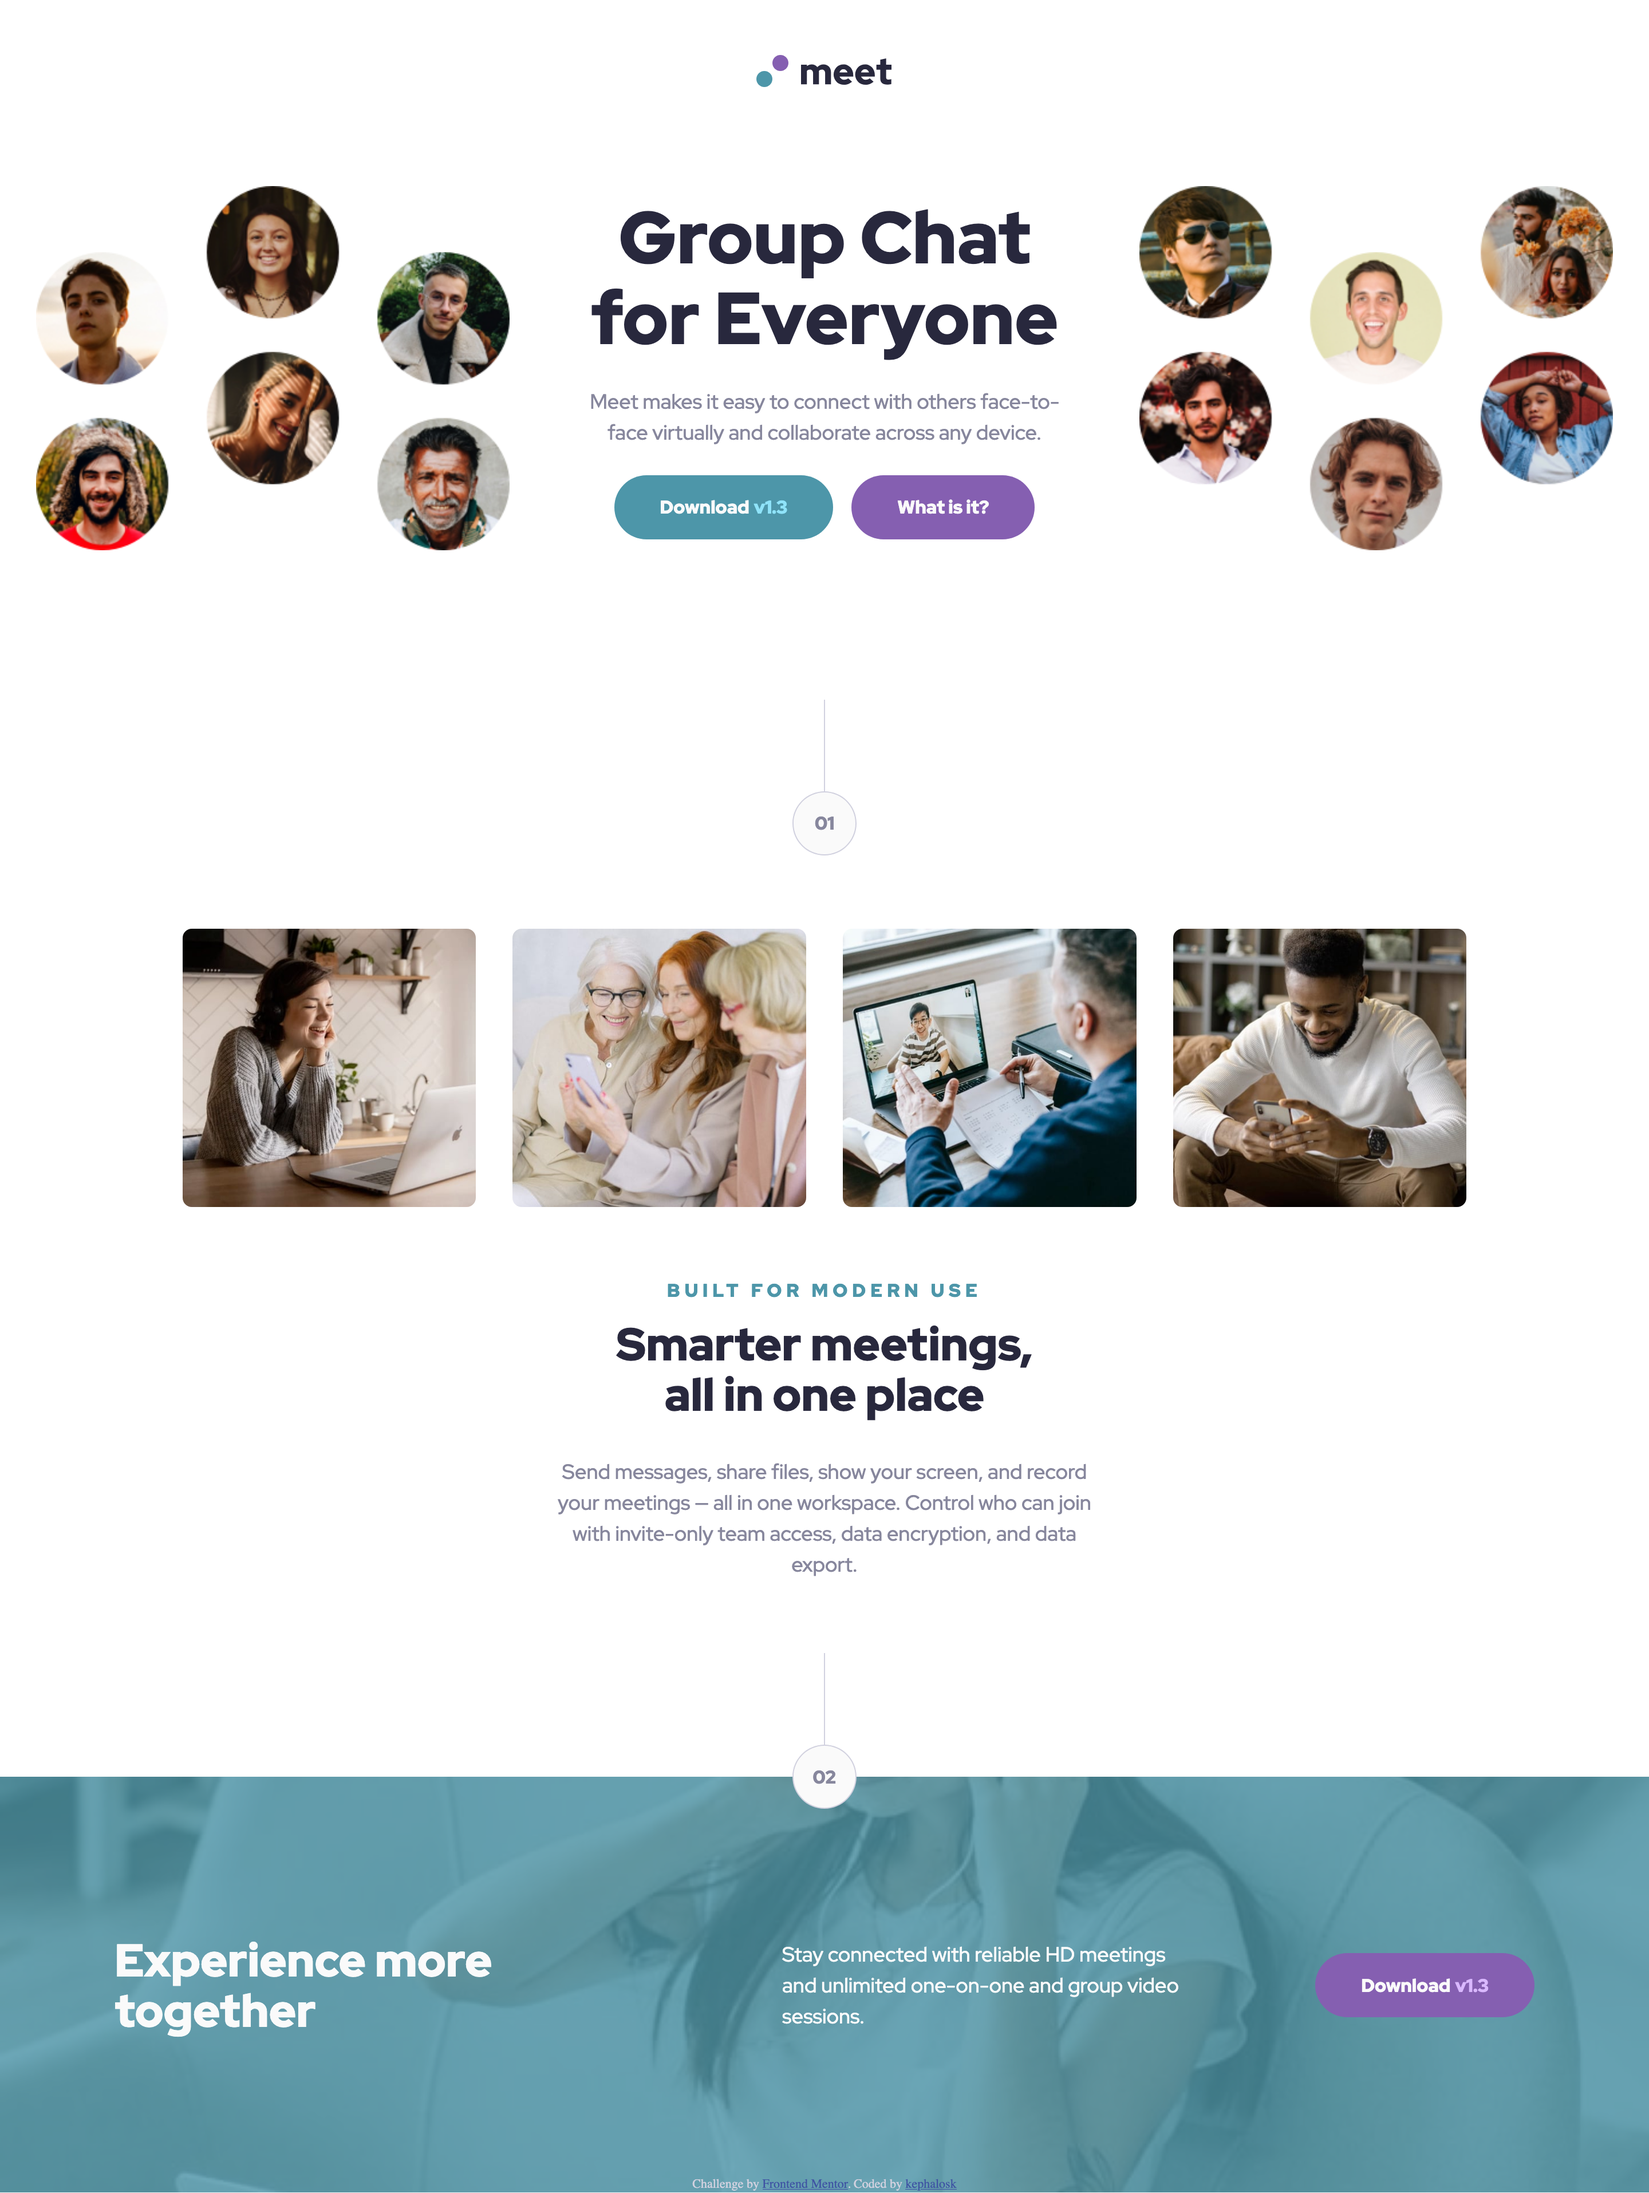
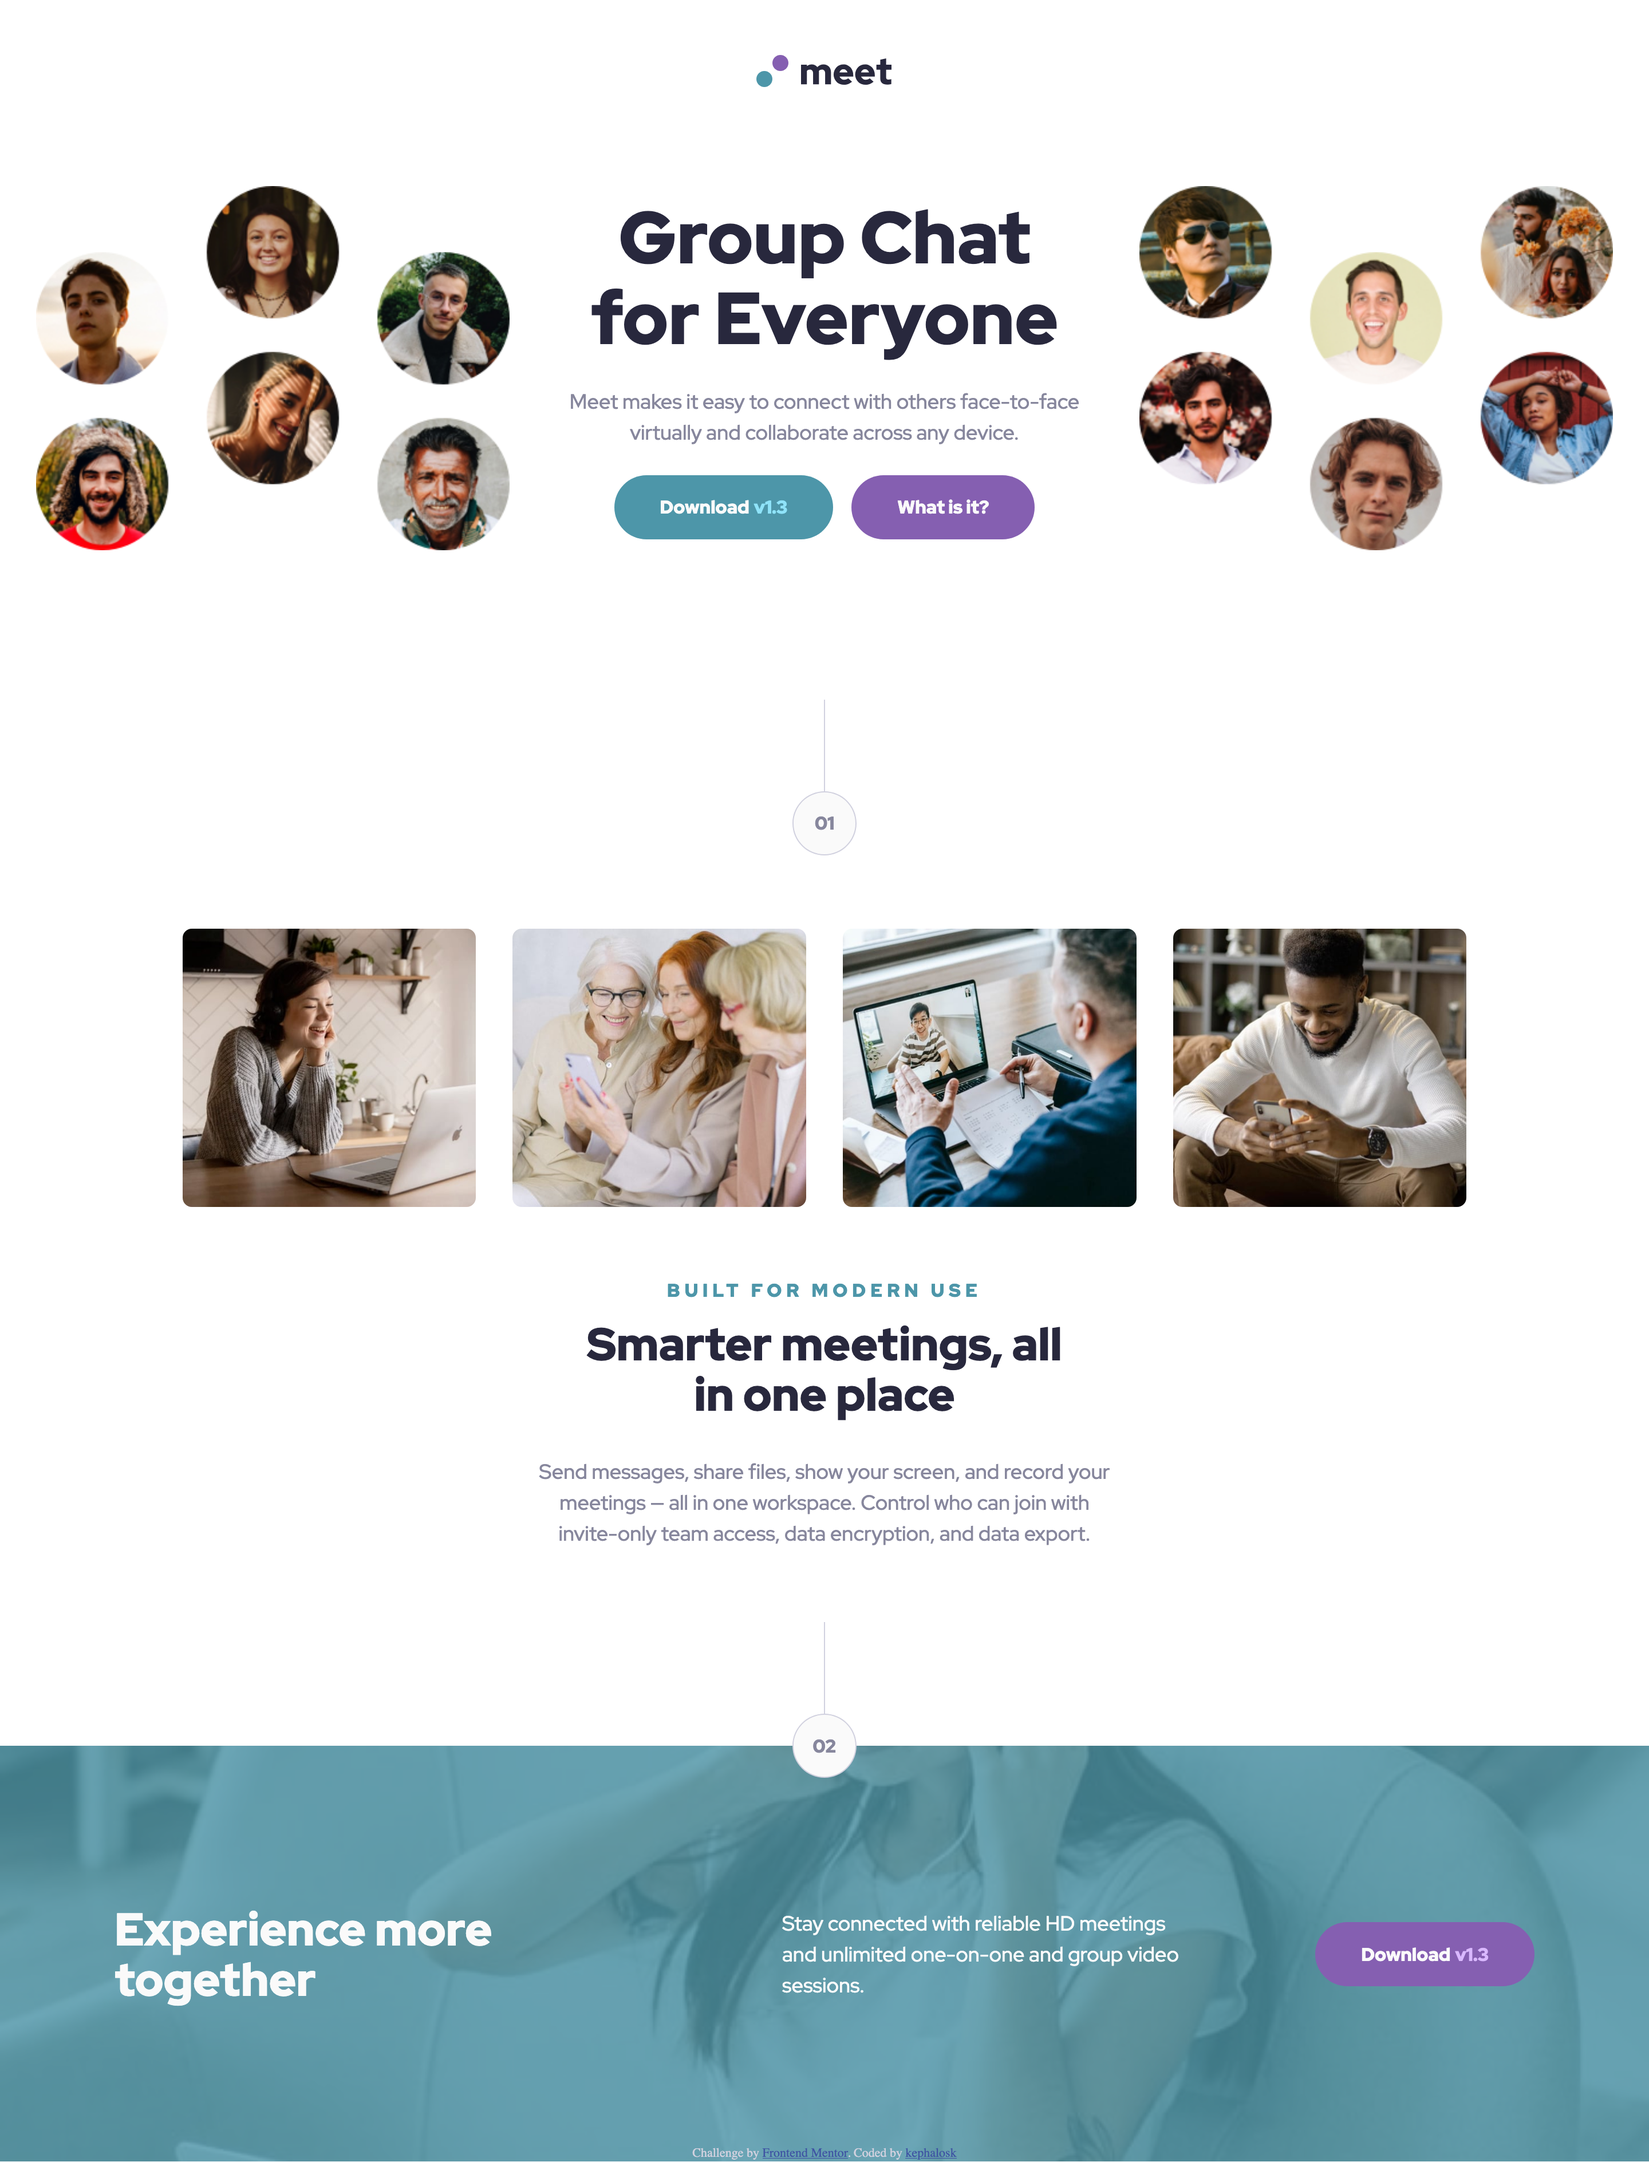
update layout

diff --git a/styles/styles.css b/styles/styles.css
@@ -71,7 +71,6 @@ h1, h2, p {
 }
 
 .contentText {
-  padding: 0 0.25rem;
   text-align: center;
   color: #87879D;
   font-family: "Red Hat Display", sans-serif;
@@ -252,6 +251,79 @@ h1, h2, p {
   }
 }
 
+.section1Content {
+  padding: 0 2rem;
+  display: flex;
+  flex-direction: column;
+  justify-content: center;
+  align-items: center;
+  row-gap: 2rem;
+}
+@media (min-width: 37.5rem) {
+  .section1Content {
+    padding: 0 6.875rem;
+  }
+}
+@media (min-width: 60rem) {
+  .section1Content {
+    max-width: 45rem;
+  }
+}
+
+.section1ContentHeader {
+  display: flex;
+  flex-direction: column;
+  justify-content: center;
+  align-items: center;
+  row-gap: 1rem;
+}
+
+.section1ContentHeaderSubtitle {
+  text-align: center;
+  text-transform: uppercase;
+  color: #4D96A9;
+  font-family: "Red Hat Display", sans-serif;
+  font-weight: 900;
+  font-size: 0.75rem;
+  line-height: 110%;
+  letter-spacing: 0.25rem;
+}
+@media (min-width: 37.5rem) {
+  .section1ContentHeaderSubtitle {
+    font-size: 0.875rem;
+  }
+}
+@media (min-width: 60rem) {
+  .section1ContentHeaderSubtitle {
+    font-size: 1rem;
+  }
+}
+
+.section1ContentHeaderTitle {
+  text-align: center;
+  color: #28283D;
+  font-family: "Red Hat Display", sans-serif;
+  font-weight: 900;
+  font-size: 2rem;
+  line-height: 110%;
+  letter-spacing: 0;
+}
+@media (min-width: 37.5rem) {
+  .section1ContentHeaderTitle {
+    font-size: 2.25rem;
+  }
+}
+@media (min-width: 60rem) {
+  .section1ContentHeaderTitle {
+    font-size: 2.5rem;
+  }
+}
+@media (min-width: 60rem) {
+  .section1ContentHeaderTitle {
+    padding: 0 1.5rem;
+  }
+}
+
 .section1Wrapper {
   padding: 0 1.5rem;
   width: 100%;
@@ -334,79 +406,6 @@ h1, h2, p {
   .section1Image4 {
     grid-column: 4/span 1;
     grid-row: 1/span 1;
-  }
-}
-
-.section1Content {
-  padding: 0 2rem;
-  display: flex;
-  flex-direction: column;
-  justify-content: center;
-  align-items: center;
-  row-gap: 2rem;
-}
-@media (min-width: 37.5rem) {
-  .section1Content {
-    padding: 0 6.875rem;
-  }
-}
-@media (min-width: 60rem) {
-  .section1Content {
-    max-width: 44.375rem;
-  }
-}
-
-.section1ContentHeader {
-  display: flex;
-  flex-direction: column;
-  justify-content: center;
-  align-items: center;
-  row-gap: 1rem;
-}
-
-.section1ContentHeaderSubtitle {
-  text-align: center;
-  text-transform: uppercase;
-  color: #4D96A9;
-  font-family: "Red Hat Display", sans-serif;
-  font-weight: 900;
-  font-size: 0.75rem;
-  line-height: 110%;
-  letter-spacing: 0.25rem;
-}
-@media (min-width: 37.5rem) {
-  .section1ContentHeaderSubtitle {
-    font-size: 0.875rem;
-  }
-}
-@media (min-width: 60rem) {
-  .section1ContentHeaderSubtitle {
-    font-size: 1rem;
-  }
-}
-
-.section1ContentHeaderTitle {
-  text-align: center;
-  color: #28283D;
-  font-family: "Red Hat Display", sans-serif;
-  font-weight: 900;
-  font-size: 2rem;
-  line-height: 110%;
-  letter-spacing: 0;
-}
-@media (min-width: 37.5rem) {
-  .section1ContentHeaderTitle {
-    font-size: 2.25rem;
-  }
-}
-@media (min-width: 60rem) {
-  .section1ContentHeaderTitle {
-    font-size: 2.5rem;
-  }
-}
-@media (min-width: 60rem) {
-  .section1ContentHeaderTitle {
-    padding: 0 3.4375rem;
   }
 }
 

diff --git a/styles/styles.scss b/styles/styles.scss
@@ -20,7 +20,6 @@ $space-80px: functions.to-rem(80px);
 $space-72px: functions.to-rem(72px);
 $space-64px: functions.to-rem(64px);
 $space-56px: functions.to-rem(56px);
-$space-55px: functions.to-rem(55px);
 $space-48px: functions.to-rem(48px);
 $space-40px: functions.to-rem(40px);
 $space-36px: functions.to-rem(36px);
@@ -39,7 +38,7 @@ $footer-height: functions.to-rem(363px);
 $number-height: functions.to-rem(108px);
 $number-line-height: functions.to-rem(80px);
 $number-circle-height: functions.to-rem(56px);
-$section-content-1-width: functions.to-rem(710px);
+$section-content-1-width: functions.to-rem(720px);
 $section-content-0-width: functions.to-rem(550px);
 $image-height: functions.to-rem(144px);
 $image-width-desktop: 17.8vw;
@@ -200,7 +199,6 @@ h1, h2, p {
 }
 
 .contentText {
-  padding: 0 $space-4px;
   text-align: center;
   color: $color-slate-600;
 
@@ -347,6 +345,50 @@ h1, h2, p {
   }
 }
 
+.section1Content {
+  padding: 0 $space-32px;
+  display: flex;
+  flex-direction: column;
+  justify-content: center;
+  align-items: center;
+  row-gap: $space-32px;
+
+  @include tablet-and-up {
+    padding: 0 $space-110px;
+  }
+
+  @include desktop-and-up {
+    max-width: $section-content-1-width;
+  }
+}
+
+.section1ContentHeader {
+  display: flex;
+  flex-direction: column;
+  justify-content: center;
+  align-items: center;
+  row-gap: $space-16px;
+}
+
+.section1ContentHeaderSubtitle {
+  text-align: center;
+  text-transform: uppercase;
+  color: $color-cyan-600;
+
+  @include text-preset-3;
+}
+
+.section1ContentHeaderTitle {
+  text-align: center;
+  color: $color-slate-900;
+
+  @include text-preset-2;
+
+  @include desktop-and-up {
+    padding: 0 $space-24px;
+  }
+}
+
 .section1Wrapper {
   padding: 0 $space-24px;
   width: 100%;
@@ -422,50 +464,6 @@ h1, h2, p {
   @include tablet-and-up {
     grid-column: 4 / span 1;
     grid-row: 1 / span 1;
-  }
-}
-
-.section1Content {
-  padding: 0 $space-32px;
-  display: flex;
-  flex-direction: column;
-  justify-content: center;
-  align-items: center;
-  row-gap: $space-32px;
-
-  @include tablet-and-up {
-    padding: 0 $space-110px;
-  }
-
-  @include desktop-and-up {
-    max-width: $section-content-1-width;
-  }
-}
-
-.section1ContentHeader {
-  display: flex;
-  flex-direction: column;
-  justify-content: center;
-  align-items: center;
-  row-gap: $space-16px;
-}
-
-.section1ContentHeaderSubtitle {
-  text-align: center;
-  text-transform: uppercase;
-  color: $color-cyan-600;
-
-  @include text-preset-3;
-}
-
-.section1ContentHeaderTitle {
-  text-align: center;
-  color: $color-slate-900;
-
-  @include text-preset-2;
-
-  @include desktop-and-up {
-    padding: 0 $space-55px;
   }
 }
 

diff --git a/index.html b/index.html
@@ -61,6 +61,7 @@
                 </div>
                 <picture>
                     <source srcset="assets/tablet/image-footer.jpg" media="(min-width: 600px)">
+                    <source srcset="assets/desktop/image-footer.jpg" media="(min-width: 960px)">
                     <img class="section2BackgroundImage" src="assets/mobile/image-footer.jpg" alt="texting image" aria-hidden="true" />
                 </picture>
                 <div class="section2BackgroundColor"></div>
